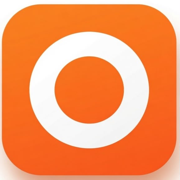
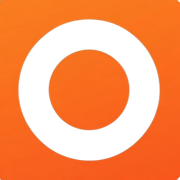
jhuh

diff --git a/app/layout.tsx b/app/layout.tsx
@@ -30,16 +30,17 @@ export const metadata: Metadata = {
     icon: [
       { url: "/favicon.png", sizes: "32x32", type: "image/png" },
       { url: "/brand/favicon-32.png", sizes: "32x32", type: "image/png" },
-      { url: "/brand/oryno-logo.png", type: "image/png" },
+      { url: "/brand/oryno-icon.png", sizes: "512x512", type: "image/png" },
     ],
     apple: [{ url: "/brand/apple-touch-icon.png", sizes: "180x180" }],
+    shortcut: "/favicon.png",
   },
   openGraph: {
     title: "ORYNO — One App. Endless Possibilities.",
     description:
       "The premium digital services app for airtime, data, bills, virtual numbers, and more.",
     type: "website",
-    images: [{ url: "/brand/oryno-logo.png", width: 577, height: 592, alt: "ORYNO" }],
+    images: [{ url: "/brand/oryno-icon.png", width: 512, height: 512, alt: "ORYNO" }],
   },
 };
 
